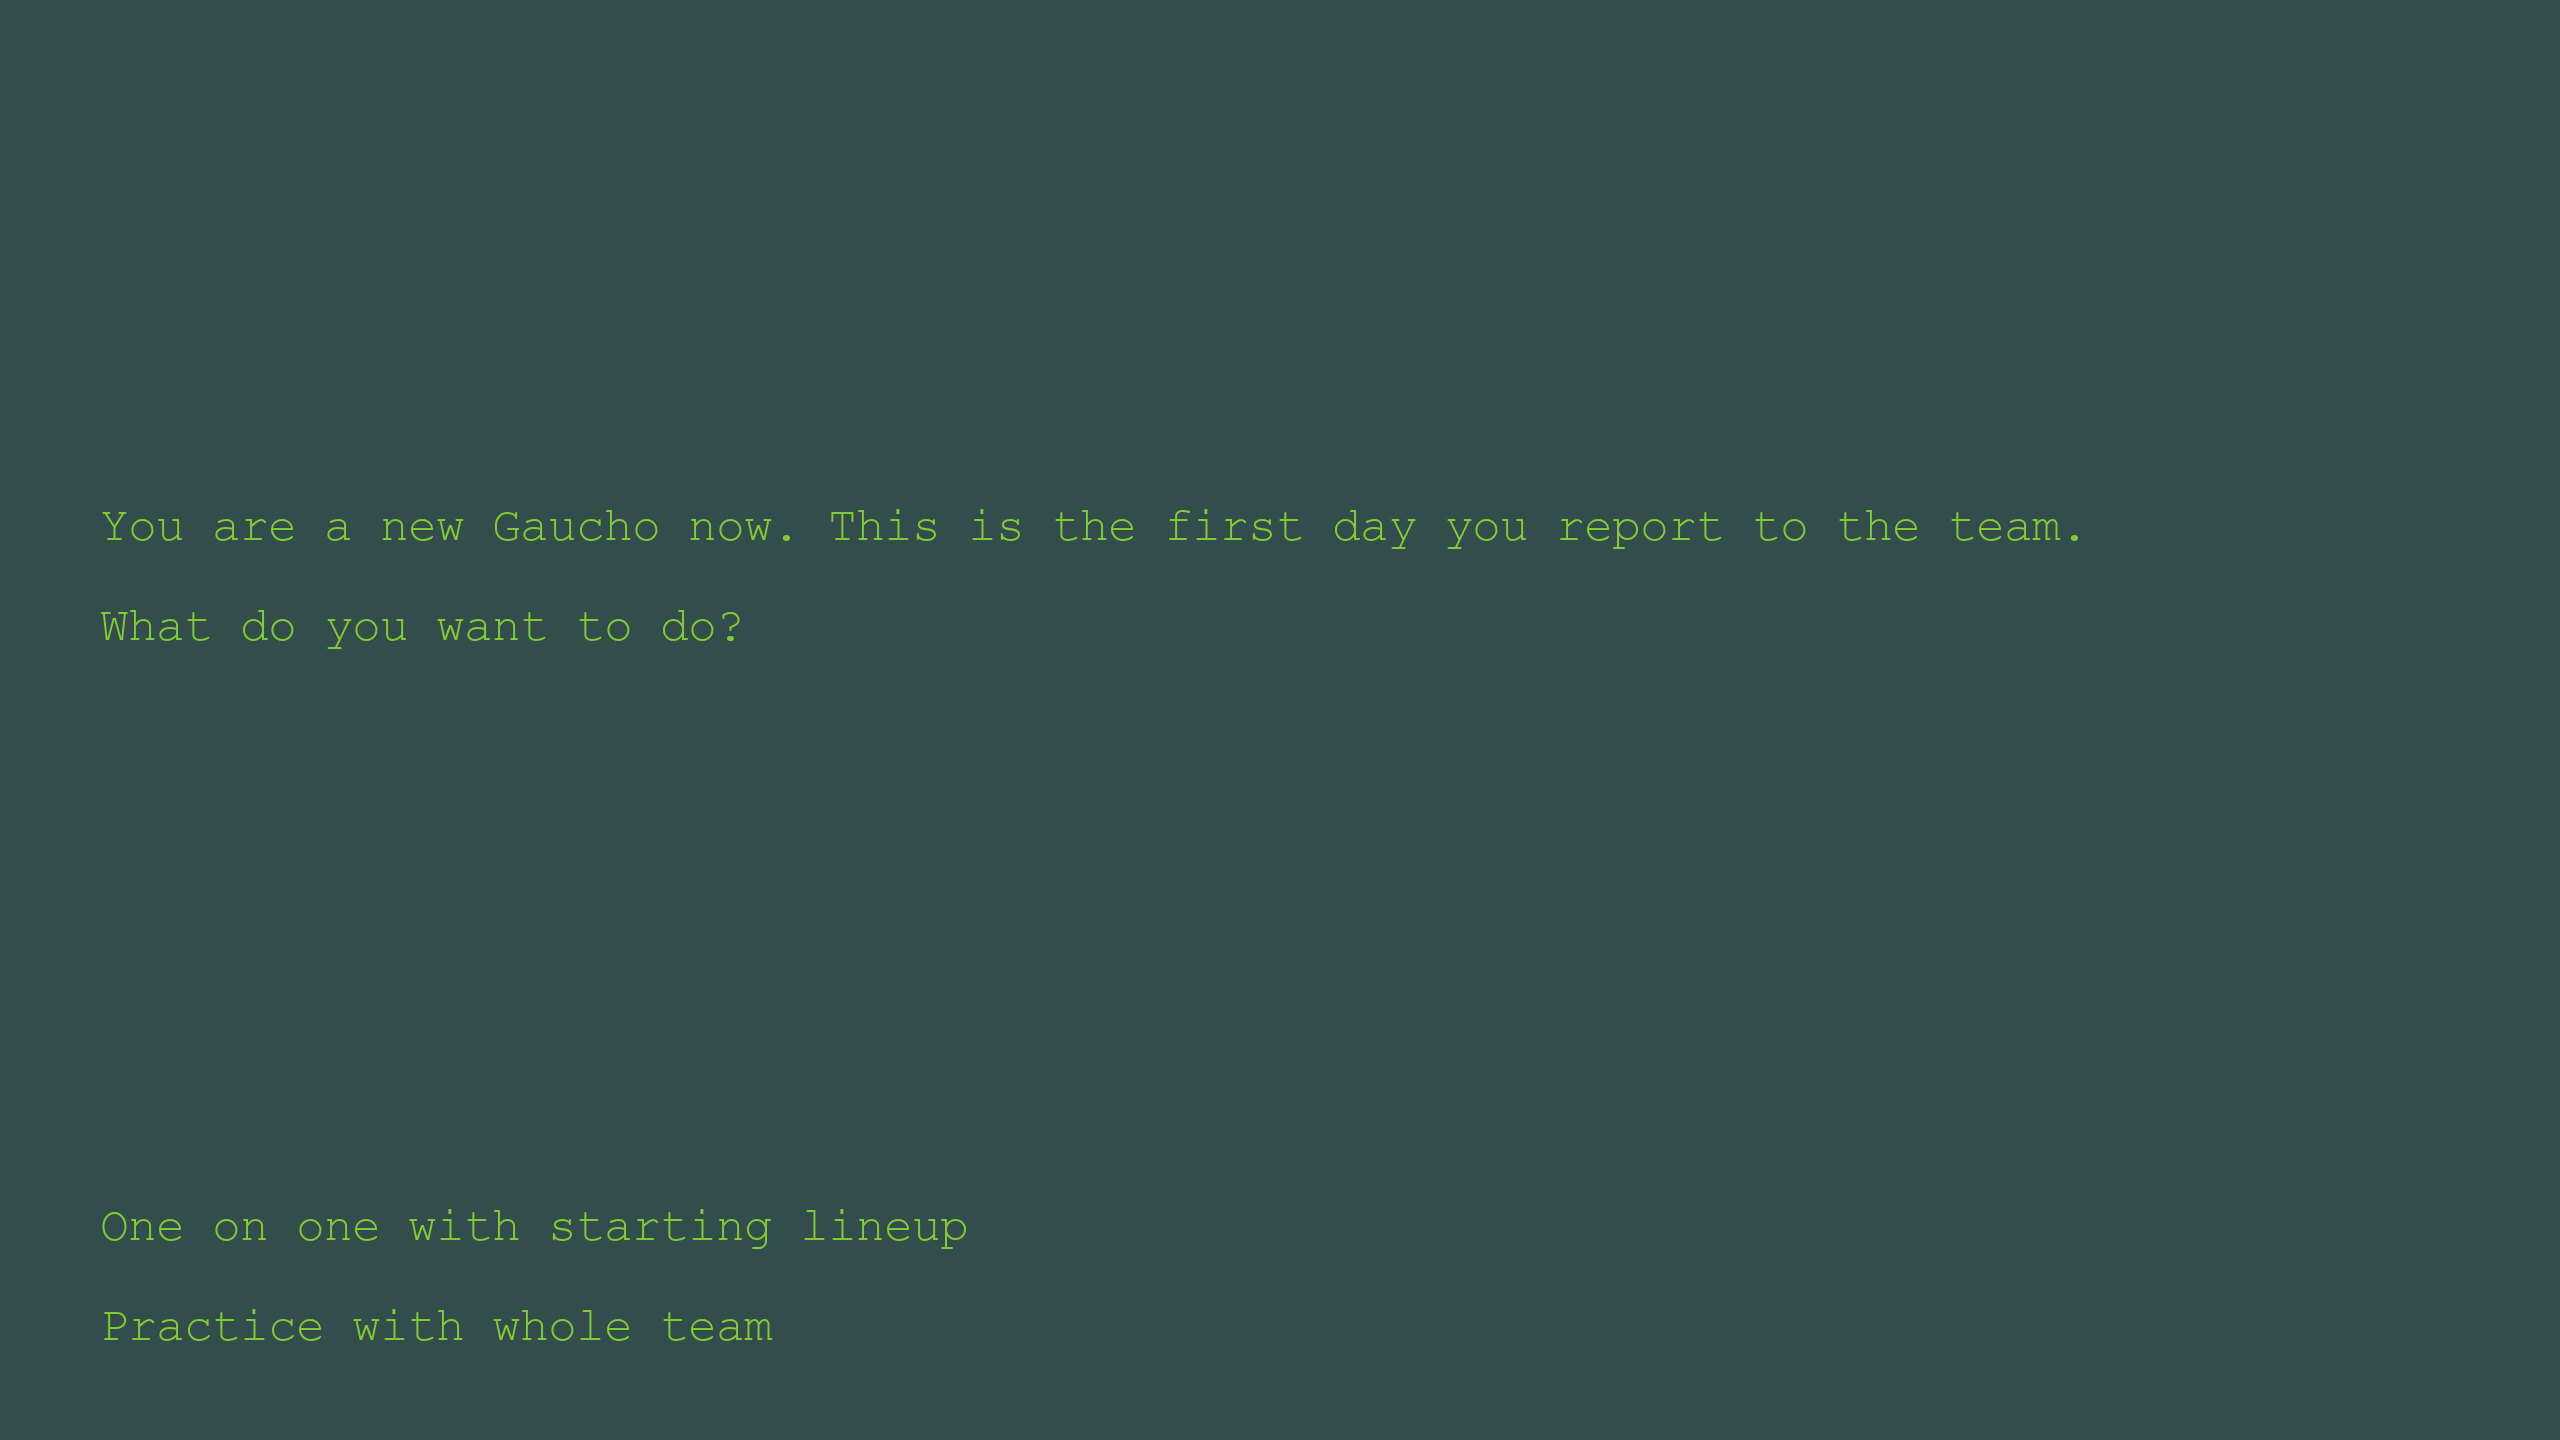
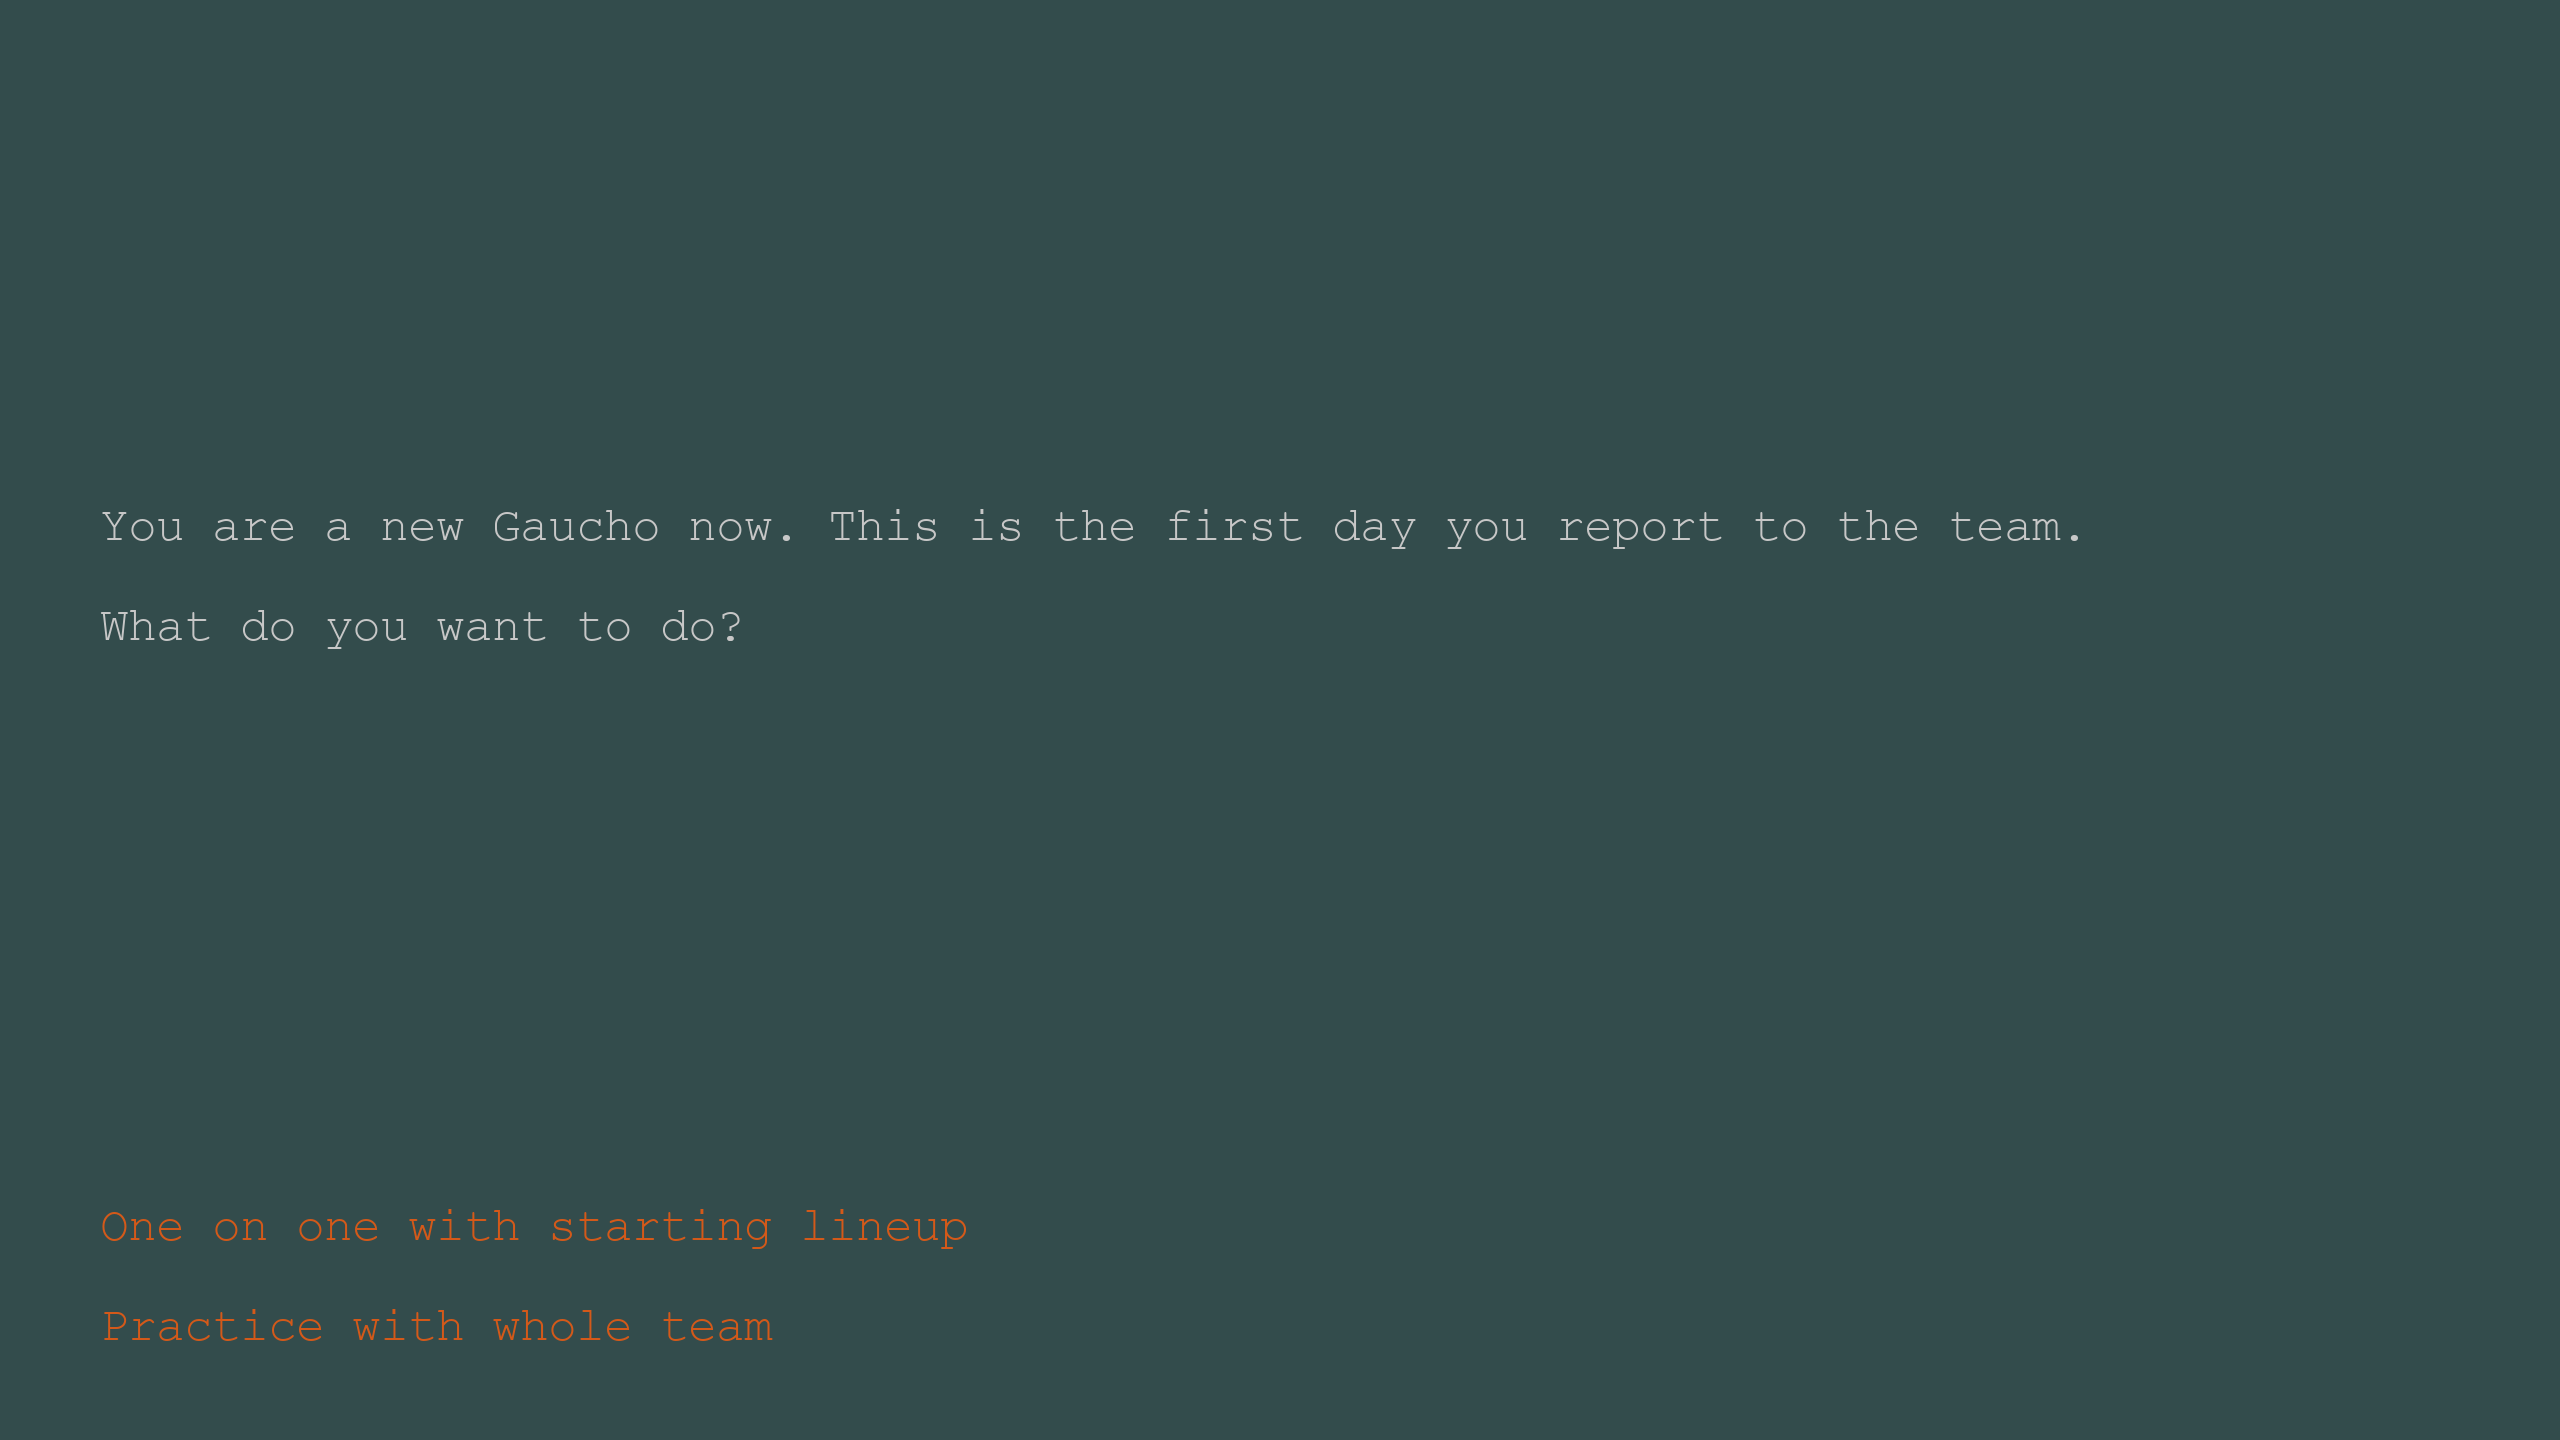
submission

diff --git a/PlayMode.cpp b/PlayMode.cpp
@@ -224,9 +224,9 @@ void PlayMode::update(float elapsed) {
 	if(step == story.size()-1 && !end){
 		//end of game
 		std::cout<<"game end"<<std::endl;
-		if (skill>1){
+		if (skill>3){
 			createText(story[step][0],story_c);
-		}else if(relation>1){
+		}else if(relation>2){
 			createText(story[step][1],story_c);
 		}else{
 			createText(story[step][2],story_c);
@@ -265,9 +265,9 @@ void PlayMode::draw(glm::uvec2 const &drawable_size) {
 
 	glEnable(GL_DEPTH_TEST);
 	glDepthFunc(GL_LESS); //this is the default depth comparison function, but FYI you can change it.
-	renderText(story_c,100.0f, 900.0f, 1.0f, glm::vec3(0.5, 0.8f, 0.2f));
+	renderText(story_c,100.0f, 900.0f, 1.0f, glm::vec3(0.78f, 0.78f, 0.78f));
 	if (!end){
-		renderText(choice_c,100.0f, 200.0f, 1.0f, glm::vec3(0.5, 0.8f, 0.2f));
+		renderText(choice_c,100.0f, 200.0f, 1.0f, glm::vec3(0.83f, 0.35f, 0.1f));
 	}
 	// scene.draw(*camera);
 	glUseProgram(0);

diff --git a/main.cpp b/main.cpp
@@ -56,7 +56,7 @@ int main(int argc, char **argv) {
 
 	//create window:
 	SDL_Window *window = SDL_CreateWindow(
-		"gp20 game4: choice-based game", //TODO: remember to set a title for your game!
+		"gp20 game4: Sim Basketball Career", //TODO: remember to set a title for your game!
 		SDL_WINDOWPOS_UNDEFINED, SDL_WINDOWPOS_UNDEFINED,
 		1280, 720, //TODO: modify window size if you'd like
 		SDL_WINDOW_OPENGL
